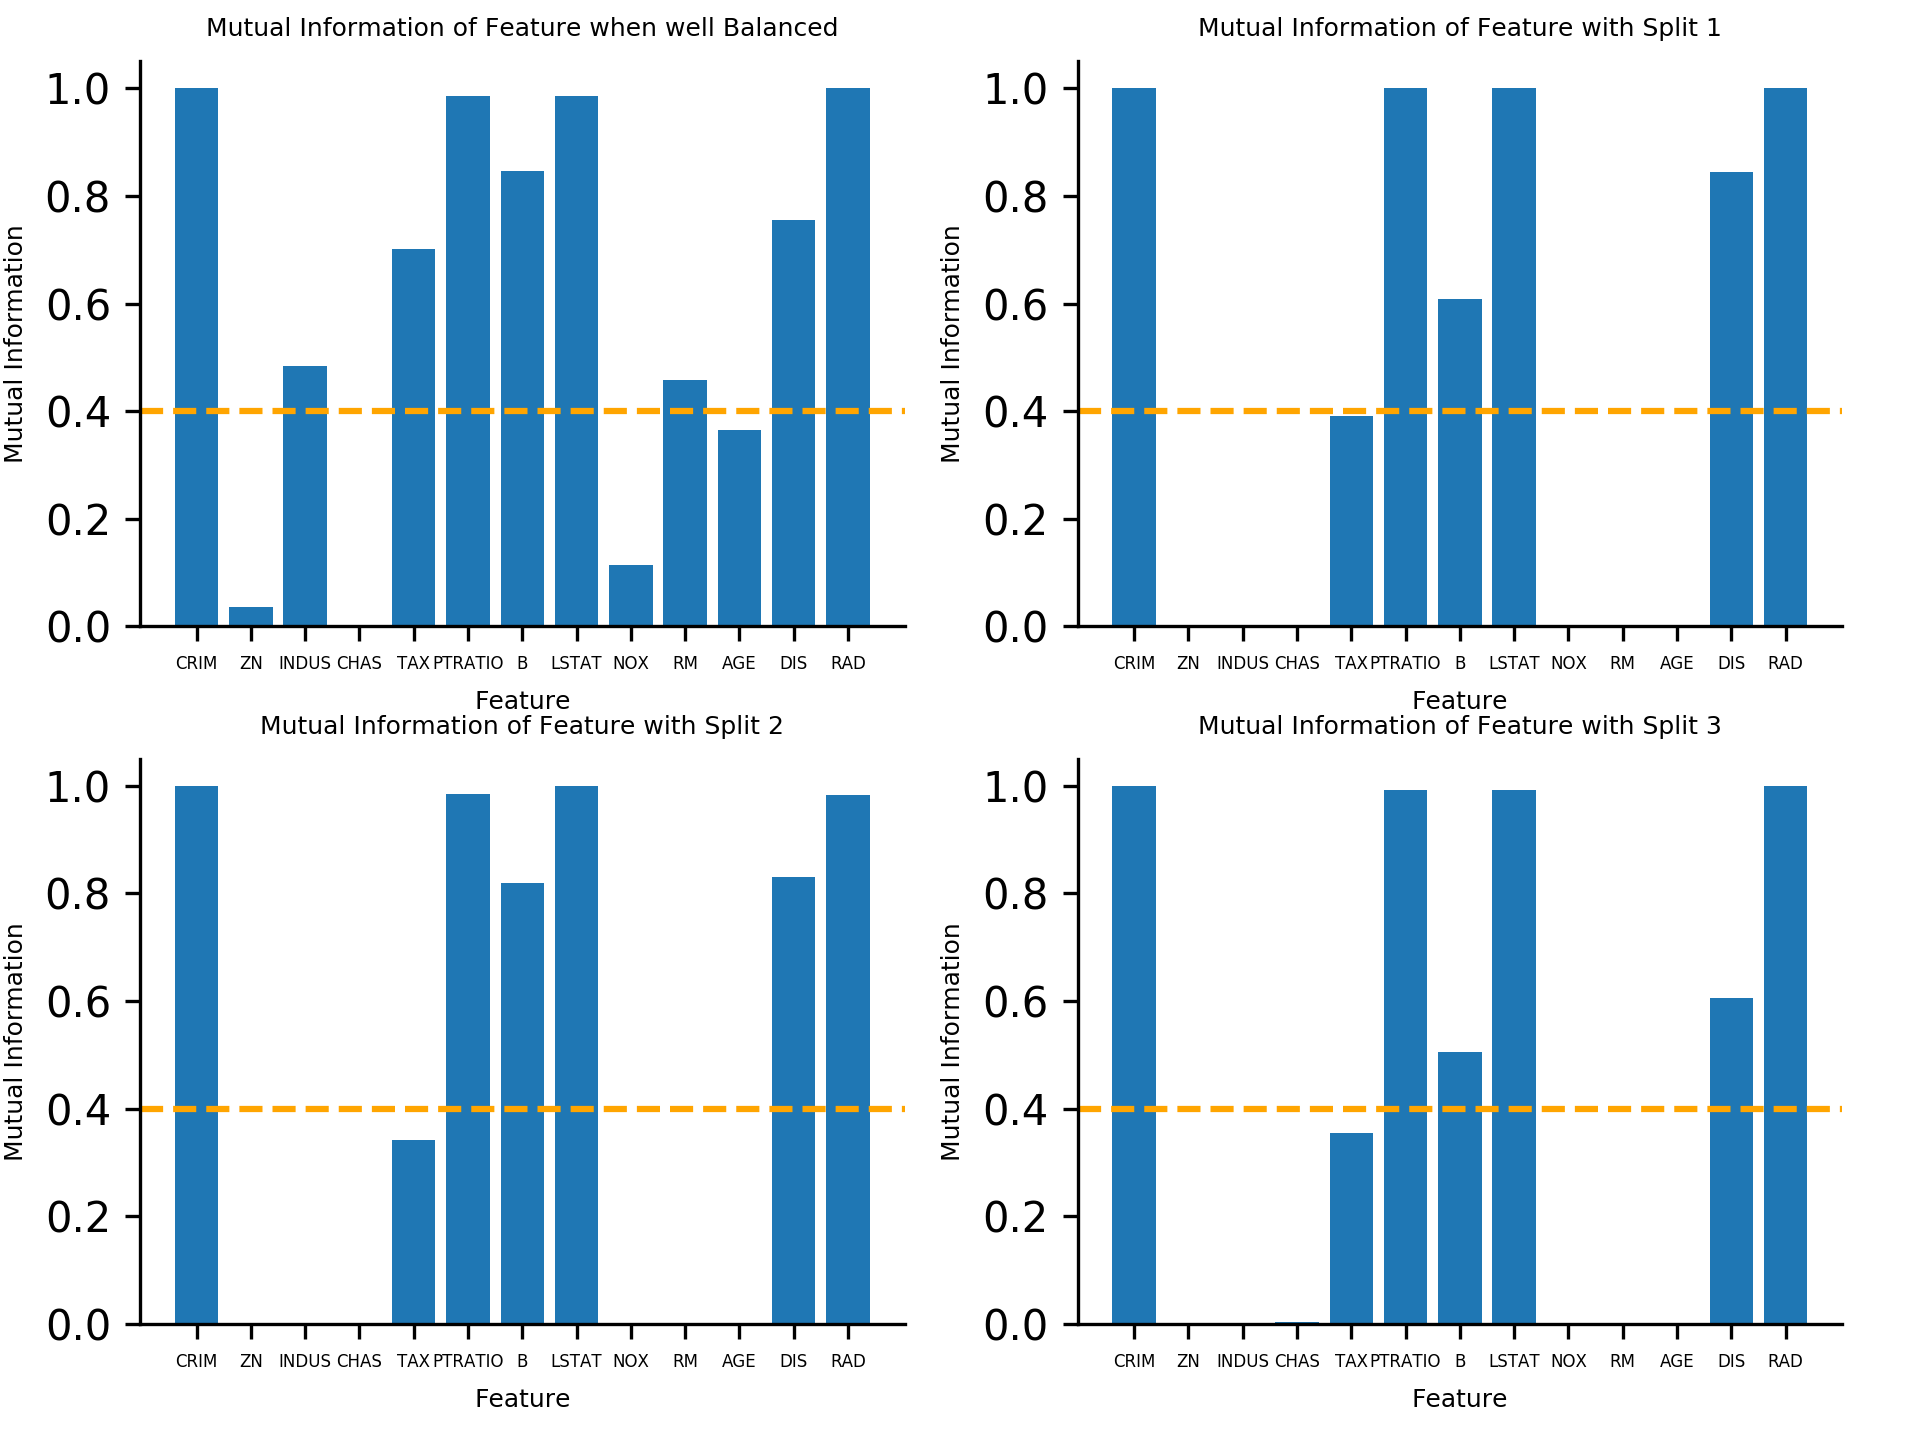
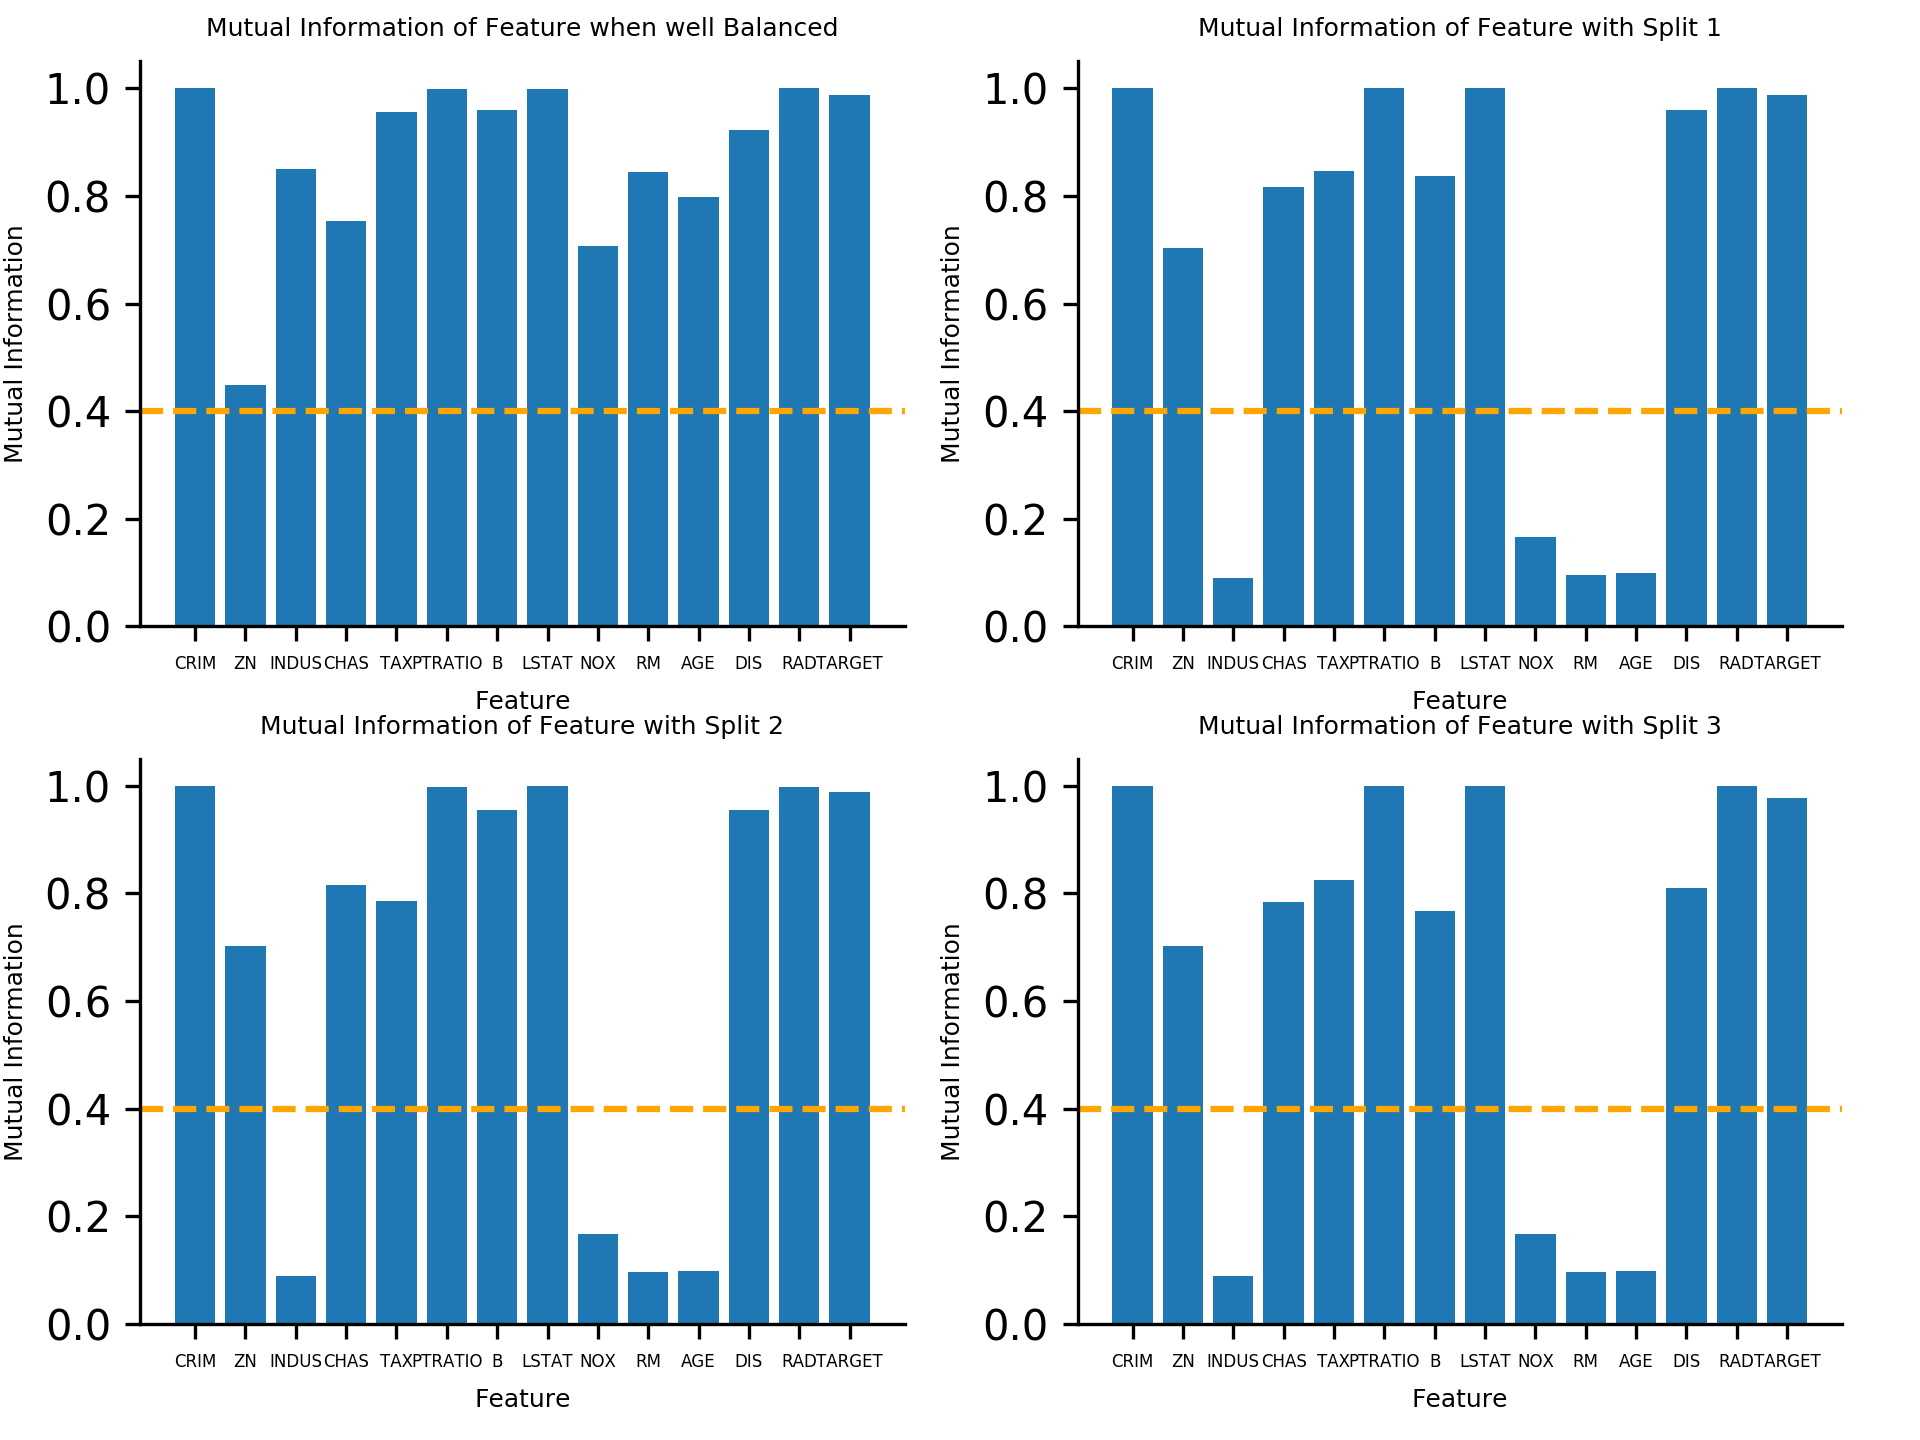
new plotting

diff --git a/Project/plotting_hist.py b/Project/plotting_hist.py
@@ -9,6 +9,8 @@ from sklearn.metrics import normalized_mutual_info_score
 from sklearn.metrics import adjusted_mutual_info_score
 from scipy.spatial.distance import jensenshannon
 from sklearn.feature_selection import mutual_info_regression
+from sklearn.metrics import adjusted_rand_score
+from sklearn.metrics.cluster import rand_score
 from arangopipe.arangopipe_analytics.rf_dataset_shift_detector import RF_DatasetShiftDetector
 import pandas as pd
 import scipy as sp
@@ -50,7 +52,8 @@ for split in splits:
         #print(get_data.inputs_training[:,i].shape)
     #    print(i)
         #print(normalized_mutual_info_score(inputs_test[:,i],get_data.inputs_training[:,i]))
-        mutual_info.append(mutual_info_score(inputs_test[:,i],get_data.inputs_training[:,i]))
+        #mutual_info.append(mutual_info_score(inputs_test[:,i],get_data.inputs_training[:,i]))
+        mutual_info.append(rand_score(inputs_test[:,i],get_data.inputs_training[:,i]))#adjusted_
         #df1=pd.DataFrame(get_data.inputs_test[:,i])
         #df1=df1.query
         #mutual_info.append(rfd.detect_dataset_shift(, pd.DataFrame(get_data.inputs_training[:,i])))
@@ -59,8 +62,7 @@ for split in splits:
         #print(inputs_test[:,i])
         #print(get_data.inputs_training[:,i])
     #mutual_info[8]=-mutual_info[8]
-
-    mutual_info_array.append((mutual_info  - min(mutual_info)) / (max(mutual_info) - min(mutual_info)))
+    mutual_info_array.append(mutual_info)#(mutual_info  - min(mutual_info)) / (max(mutual_info) - min(mutual_info))
 
     #my_xticks = ['e-05',' e-04',' e-03',' e-02',' e-01',' 1',' 10',' 100']
     #plt.xticks(i, my_xticks)
@@ -80,8 +82,8 @@ for split in splits:
     plt.close()
     '''
 
-i=range(13)
-my_xticks = ["CRIM","ZN","INDUS","CHAS","TAX","PTRATIO","B","LSTAT","NOX","RM","AGE","DIS","RAD"]
+i=range(14)
+my_xticks = ["CRIM","ZN","INDUS","CHAS","TAX","PTRATIO","B","LSTAT","NOX","RM","AGE","DIS","RAD","TARGET"]
 
 
 fig, axs = plt.subplots(2, 2)
